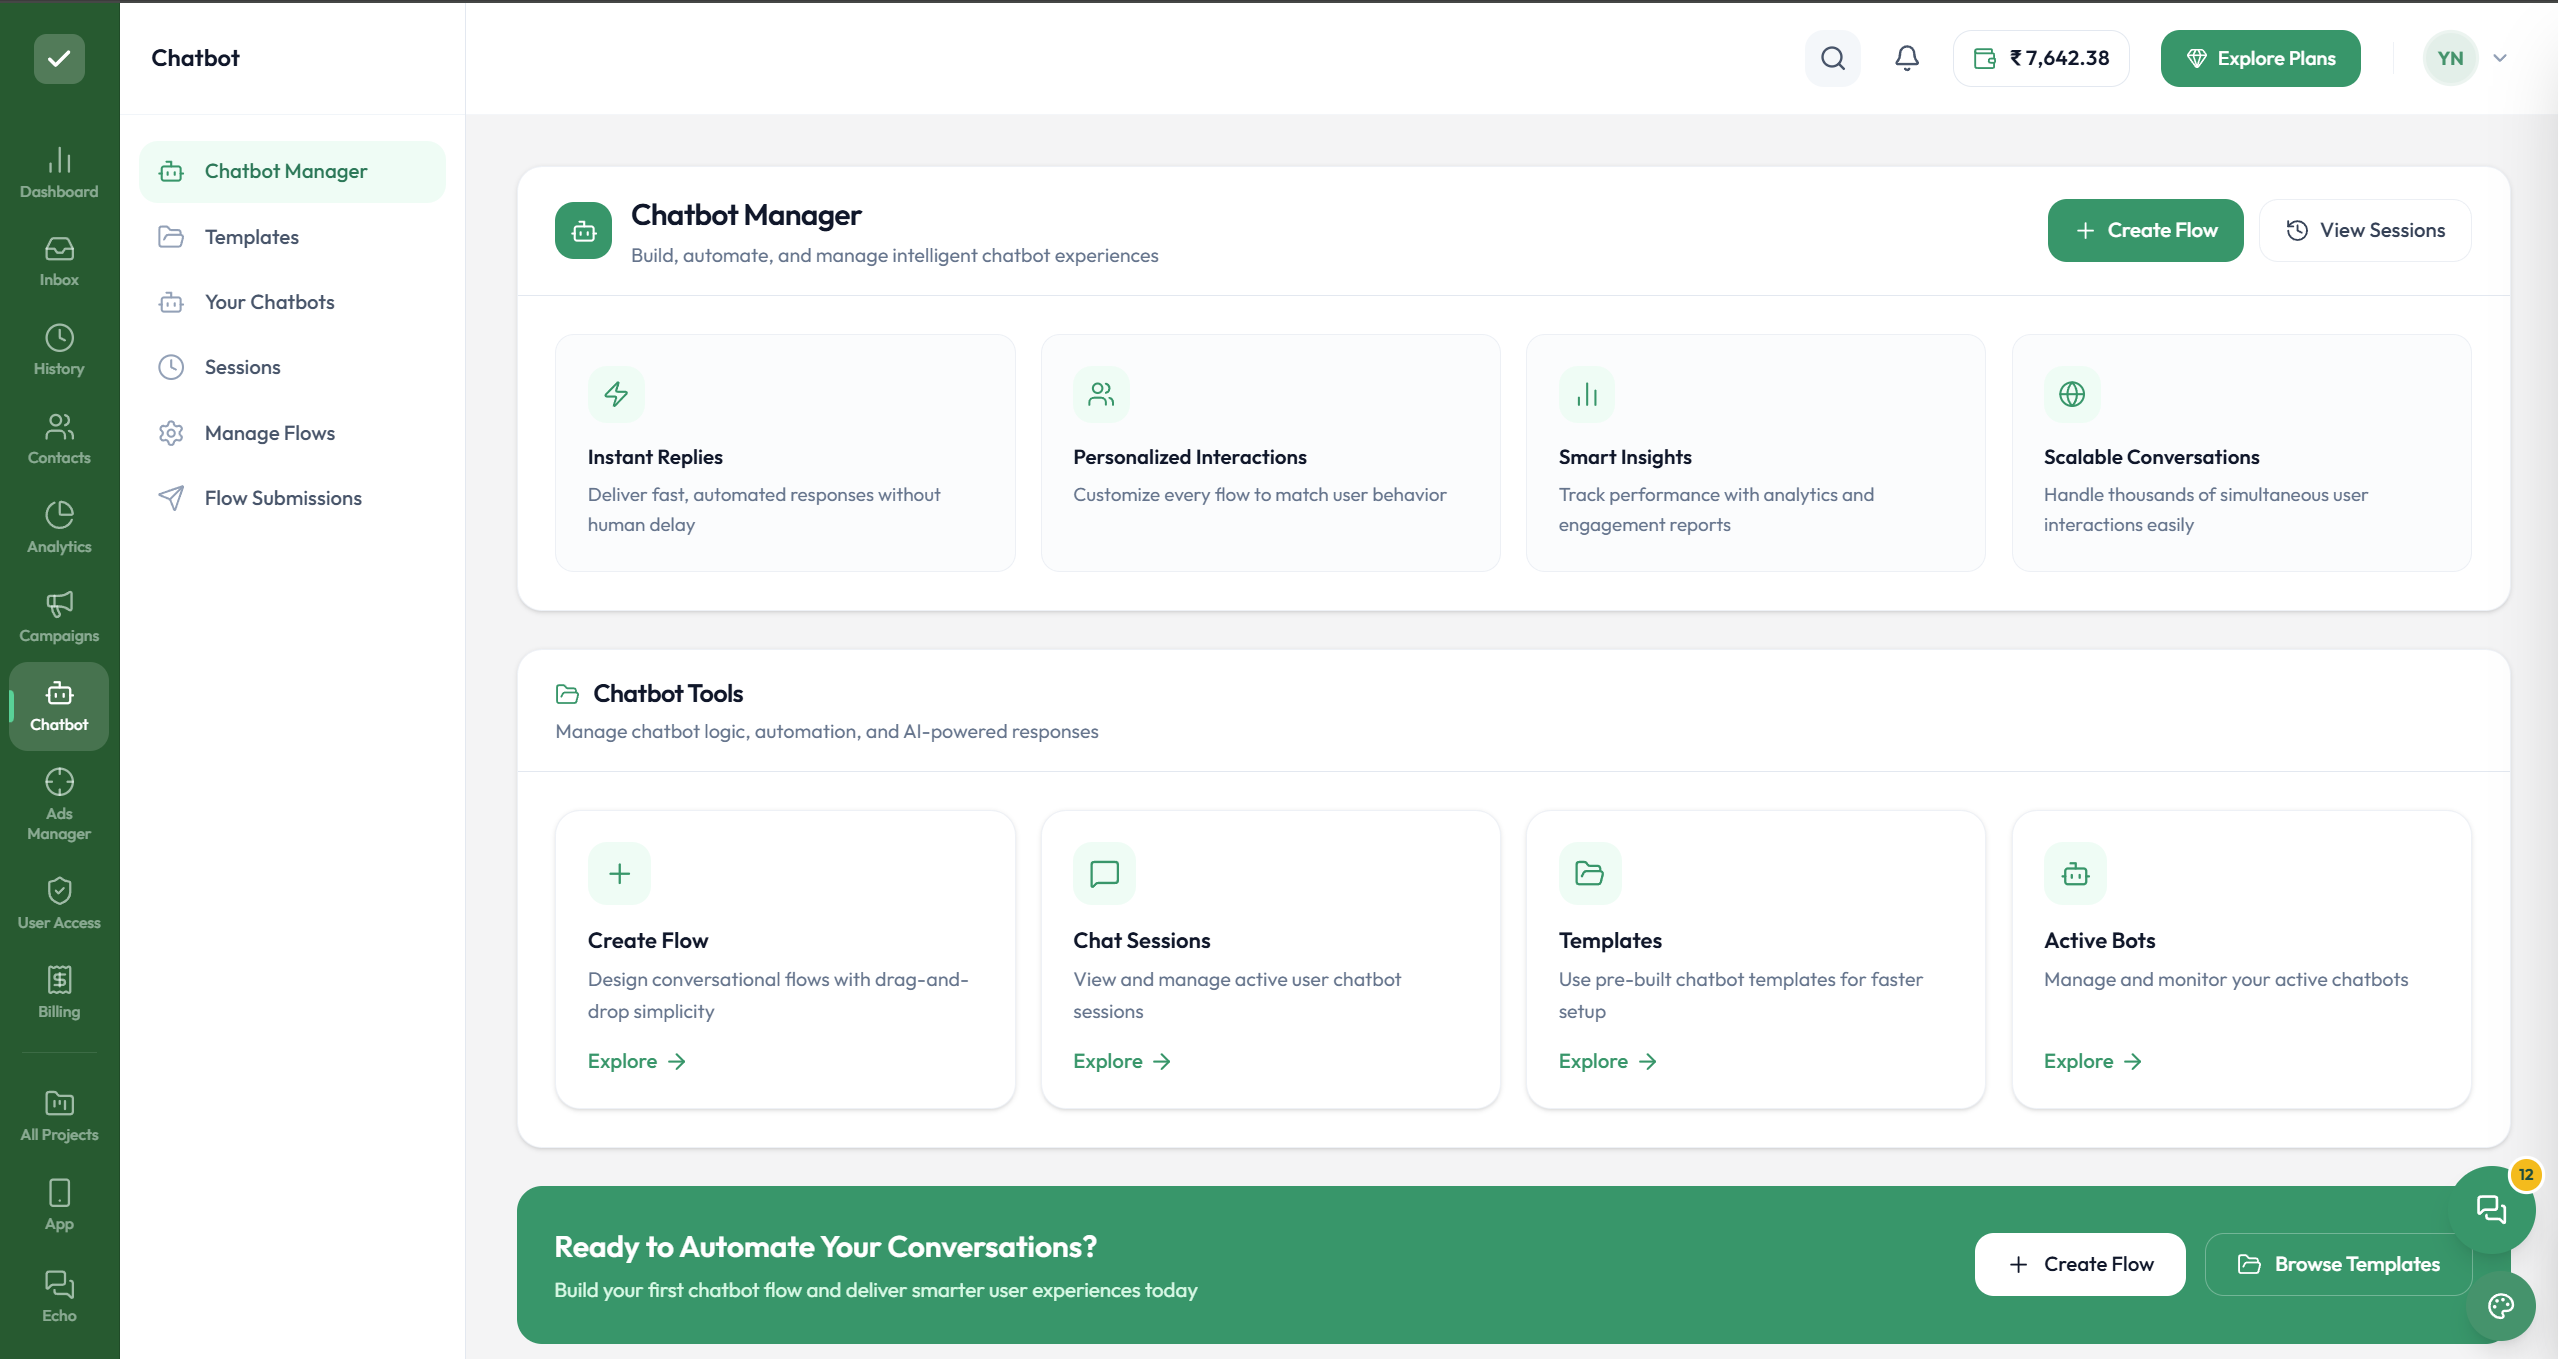
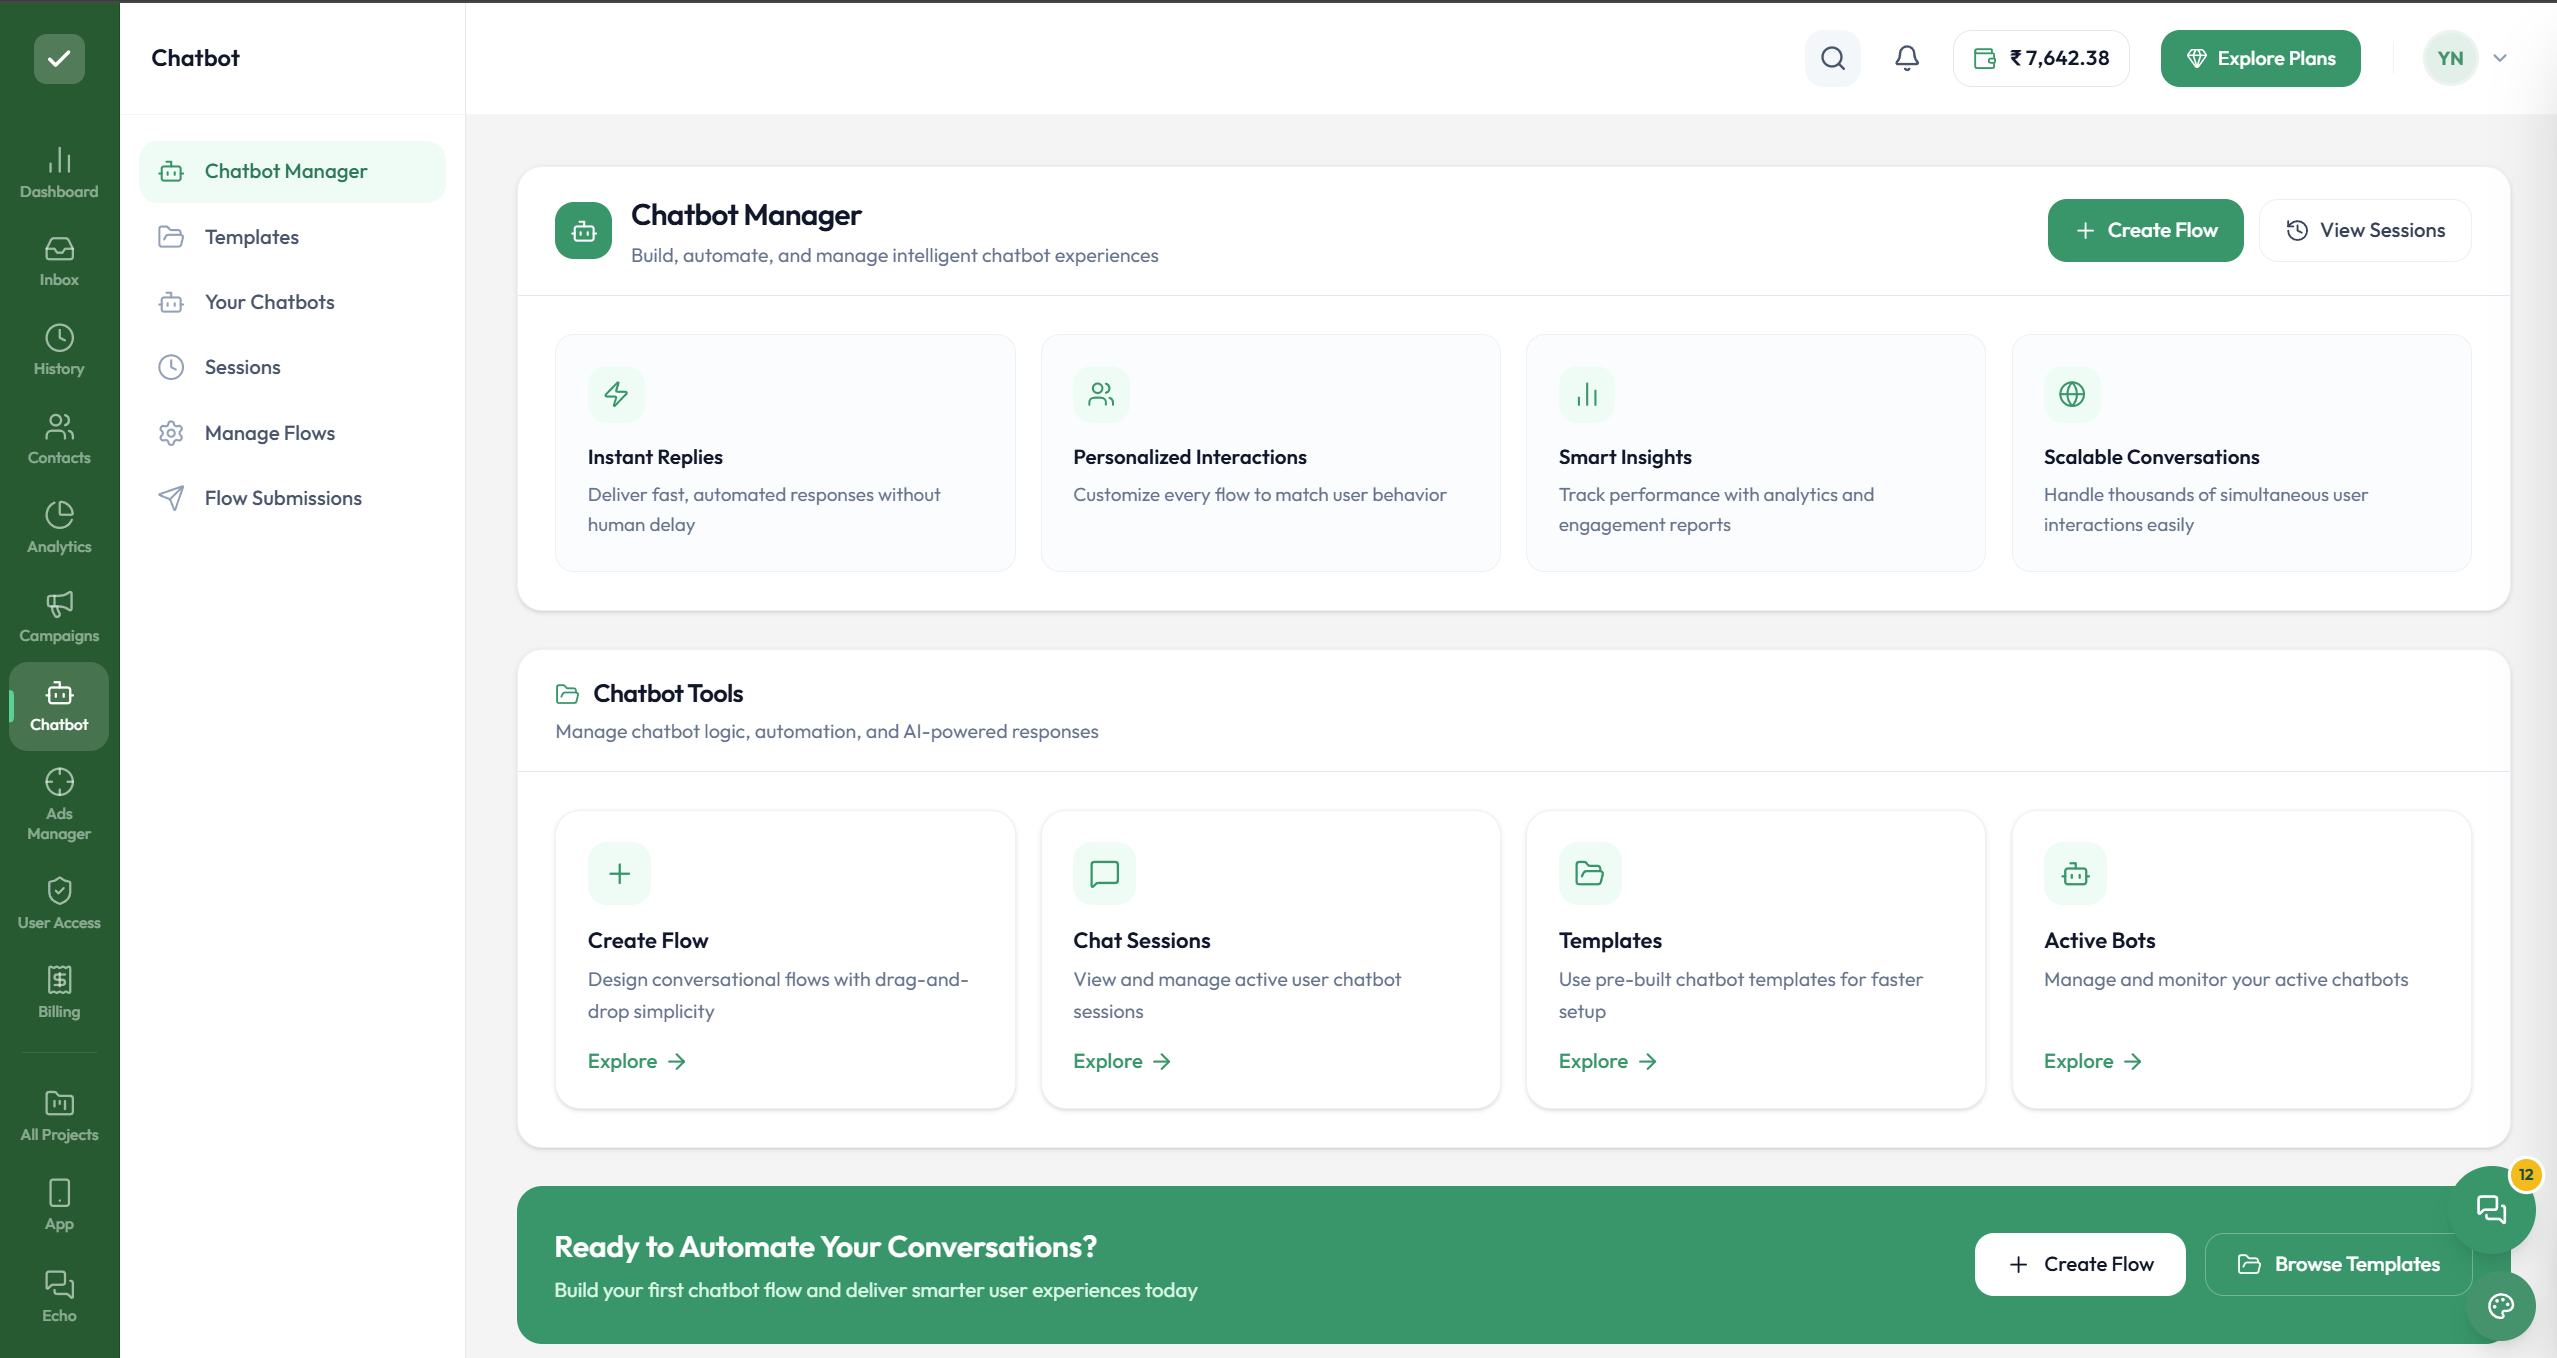
style: remove shadows from workflow images, crop to container boundaries, and reduce responsive height

diff --git a/components/shadcn-studio/blocks/hero-section-40/hero-section-40.tsx b/components/shadcn-studio/blocks/hero-section-40/hero-section-40.tsx
@@ -12,6 +12,7 @@ import FollowUps from '@/components/shadcn-studio/blocks/hero-section-40/follow-
 import DataSync from '@/components/shadcn-studio/blocks/hero-section-40/data-sync'
 import Reporting from '@/components/shadcn-studio/blocks/hero-section-40/reporting'
 import ContentDrafting from '@/components/shadcn-studio/blocks/hero-section-40/content-drafting'
+import ChatbotRating from '@/components/shadcn-studio/blocks/hero-section-40/chatbot-rating'
 
 const IsometricSymbol = () => (
   <svg width="50" height="50" viewBox="0 0 60 60" fill="none" xmlns="http://www.w3.org/2000/svg" className="text-neutral-700 animate-bounce duration-1000">
@@ -45,7 +46,7 @@ const MetaBusinessPartnerLogo = () => (
   </div>
 )
 
-const AutoScrollingImage = ({ src, alt }: { src: string; alt: string }) => {
+const AutoScrollingImage = ({ src, alt, scale = 1, hasSidebar = false }: { src: string; alt: string; scale?: number; hasSidebar?: boolean }) => {
   const animName = `scroll-${src.replace(/[^a-zA-Z0-9]/g, '')}`
   return (
     <div className="scrolling-container w-full h-full flex overflow-hidden bg-white relative">
@@ -53,22 +54,23 @@ const AutoScrollingImage = ({ src, alt }: { src: string; alt: string }) => {
         @keyframes ${animName} {
           0%, 8% {
             top: 0;
-            transform: translateY(0);
+            transform: translateY(0) scale(${scale});
           }
           42%, 58% {
             top: 100%;
-            transform: translateY(-100%);
+            transform: translateY(-100%) scale(${scale});
           }
           92%, 100% {
             top: 0;
-            transform: translateY(0);
+            transform: translateY(0) scale(${scale});
           }
         }
         .animate-${animName} {
           position: absolute;
-          width: calc(100% / 0.948);
+          width: ${hasSidebar ? 'calc(100% / 0.948)' : '100%'};
           height: auto;
-          left: calc(-100% * (0.052 / 0.948));
+          left: ${hasSidebar ? 'calc(-100% * (0.052 / 0.948))' : '0'};
+          transform-origin: top center;
           animation: ${animName} 18s ease-in-out infinite;
         }
         .scrolling-container:hover .animate-${animName} {
@@ -77,17 +79,21 @@ const AutoScrollingImage = ({ src, alt }: { src: string; alt: string }) => {
       `}} />
       
       {/* 1. Left Sidebar (Fixed, no scroll) */}
-      <div className="w-[5.2%] h-full overflow-hidden relative">
-        <img
-          src={src}
-          alt={alt}
-          className="absolute top-0 left-0 max-w-none"
-          style={{
-            width: 'calc(100% / 0.052)',
-            height: 'auto',
-          }}
-        />
-      </div>
+      {hasSidebar && (
+        <div className="w-[5.2%] h-full overflow-hidden relative">
+          <img
+            src={src}
+            alt={alt}
+            className="absolute top-0 left-0 max-w-none"
+            style={{
+              width: 'calc(100% / 0.052)',
+              height: 'auto',
+              transform: `scale(${scale})`,
+              transformOrigin: 'top left',
+            }}
+          />
+        </div>
+      )}
       
       {/* 2. Right Content (Auto scrolling) */}
       <div className="flex-1 h-full overflow-hidden relative">
@@ -110,6 +116,7 @@ const tabs = [
       <AutoScrollingImage
         src="/screencapture-ai-greentick-dashboard-vercel-app-inbox-2026-06-18-19_15_57.png"
         alt="Unified Inbox Dashboard"
+        hasSidebar={true}
       />
     )
   },
@@ -145,12 +152,7 @@ const tabs = [
     name: 'Chatbot',
     value: 'chatbot',
     icon: <BotIcon className="size-4.5" />,
-    content: (
-      <AutoScrollingImage
-        src="/chatbot.png"
-        alt="Chatbot Manager Dashboard"
-      />
-    )
+    content: <ChatbotRating />
   },
   {
     name: 'AI Analytics',

diff --git a/components/shadcn-studio/blocks/hero-section-40/chatbot-rating.tsx b/components/shadcn-studio/blocks/hero-section-40/chatbot-rating.tsx
@@ -1,0 +1,41 @@
+'use client'
+
+import { useState } from 'react'
+
+const ChatbotRating = () => {
+  const [rating, setRating] = useState<number | null>(9)
+
+  return (
+    <div className="w-full h-full flex flex-col items-center justify-center bg-white p-8 sm:p-12 md:p-16 lg:p-20 select-none">
+      {/* Rating text - directly on white, no wrapper card */}
+      <h3 className="text-base sm:text-xl md:text-2xl lg:text-3xl font-semibold text-neutral-700 leading-snug tracking-tight text-center max-w-2xl mb-8 sm:mb-10 md:mb-14">
+        Hope I have resolved your query, How would you like to rate our support experience?
+      </h3>
+
+      {/* Rating buttons 1 to 10 */}
+      <div className="flex justify-center items-center gap-2 sm:gap-3 md:gap-4 lg:gap-5 mb-4 sm:mb-6">
+        {[1, 2, 3, 4, 5, 6, 7, 8, 9, 10].map((num) => (
+          <button
+            key={num}
+            onClick={() => setRating(num)}
+            className={`size-8 sm:size-11 md:size-13 lg:size-14 rounded-full flex items-center justify-center text-xs sm:text-sm md:text-base lg:text-lg font-semibold transition-all shrink-0 border ${
+              rating === num
+                ? 'bg-[#4964e6] text-white border-[#4964e6]'
+                : 'bg-white text-neutral-500 border-neutral-200 hover:bg-neutral-50'
+            }`}
+          >
+            {num}
+          </button>
+        ))}
+      </div>
+
+      {/* Labels */}
+      <div className="flex justify-between items-center text-[10px] sm:text-xs md:text-sm text-neutral-400 font-medium w-full max-w-md sm:max-w-lg md:max-w-xl">
+        <span>Least likely</span>
+        <span>Most likely</span>
+      </div>
+    </div>
+  )
+}
+
+export default ChatbotRating

diff --git a/components/shadcn-studio/blocks/features-section-26/features-section-26.tsx b/components/shadcn-studio/blocks/features-section-26/features-section-26.tsx
@@ -64,29 +64,29 @@ const Features = ({ data }: { data: DataType[] }) => {
               </div>
 
               {/* Image Preview Container */}
-              <div className='relative flex-grow flex items-center justify-center overflow-hidden px-4 py-8 lg:py-12 max-lg:h-120 min-h-[360px] bg-neutral-50/20'>
+              <div className='relative flex-grow flex items-center justify-center overflow-hidden px-4 py-6 lg:py-12 max-lg:h-auto max-lg:min-h-0 bg-neutral-50/20'>
                 <DottedSheet className='absolute inset-0 h-full w-full opacity-60' />
                 <div className='absolute inset-0 bg-[radial-gradient(circle,transparent_0%,var(--background)_80%)]' />
-                <div className="relative z-10 w-full max-w-[440px] bg-white dark:bg-neutral-850 rounded-xl shadow-xl border border-neutral-200/80 flex items-center justify-center overflow-hidden aspect-[16/10]">
+                <div className="relative z-10 w-full max-w-[520px] bg-white dark:bg-neutral-850 rounded-xl border border-neutral-200/80 flex items-center justify-center overflow-hidden aspect-[16/10] p-0">
                   {activeTab === 'marketing' && (
                     <img 
-                      src="/images/marketing-workflow.jpg" 
+                      src="/images/marketing-workflow.png" 
                       alt="Marketing Workflow" 
-                      className="w-full h-full object-cover animate-in fade-in zoom-in-95 duration-300"
+                      className="w-full h-full object-contain animate-in fade-in zoom-in-95 duration-300"
                     />
                   )}
                   {activeTab === 'sales' && (
                     <img 
-                      src="/images/sales-workflow.jpg" 
+                      src="/images/sales-workflow.png" 
                       alt="Sales Workflow" 
-                      className="w-full h-full object-cover animate-in fade-in zoom-in-95 duration-300"
+                      className="w-full h-full object-contain animate-in fade-in zoom-in-95 duration-300"
                     />
                   )}
                   {activeTab === 'support' && (
                     <img 
-                      src="/images/support-workflow.jpg" 
+                      src="/images/support-workflow.png" 
                       alt="Support Workflow" 
-                      className="w-full h-full object-cover animate-in fade-in zoom-in-95 duration-300"
+                      className="w-full h-full object-contain animate-in fade-in zoom-in-95 duration-300"
                     />
                   )}
                 </div>